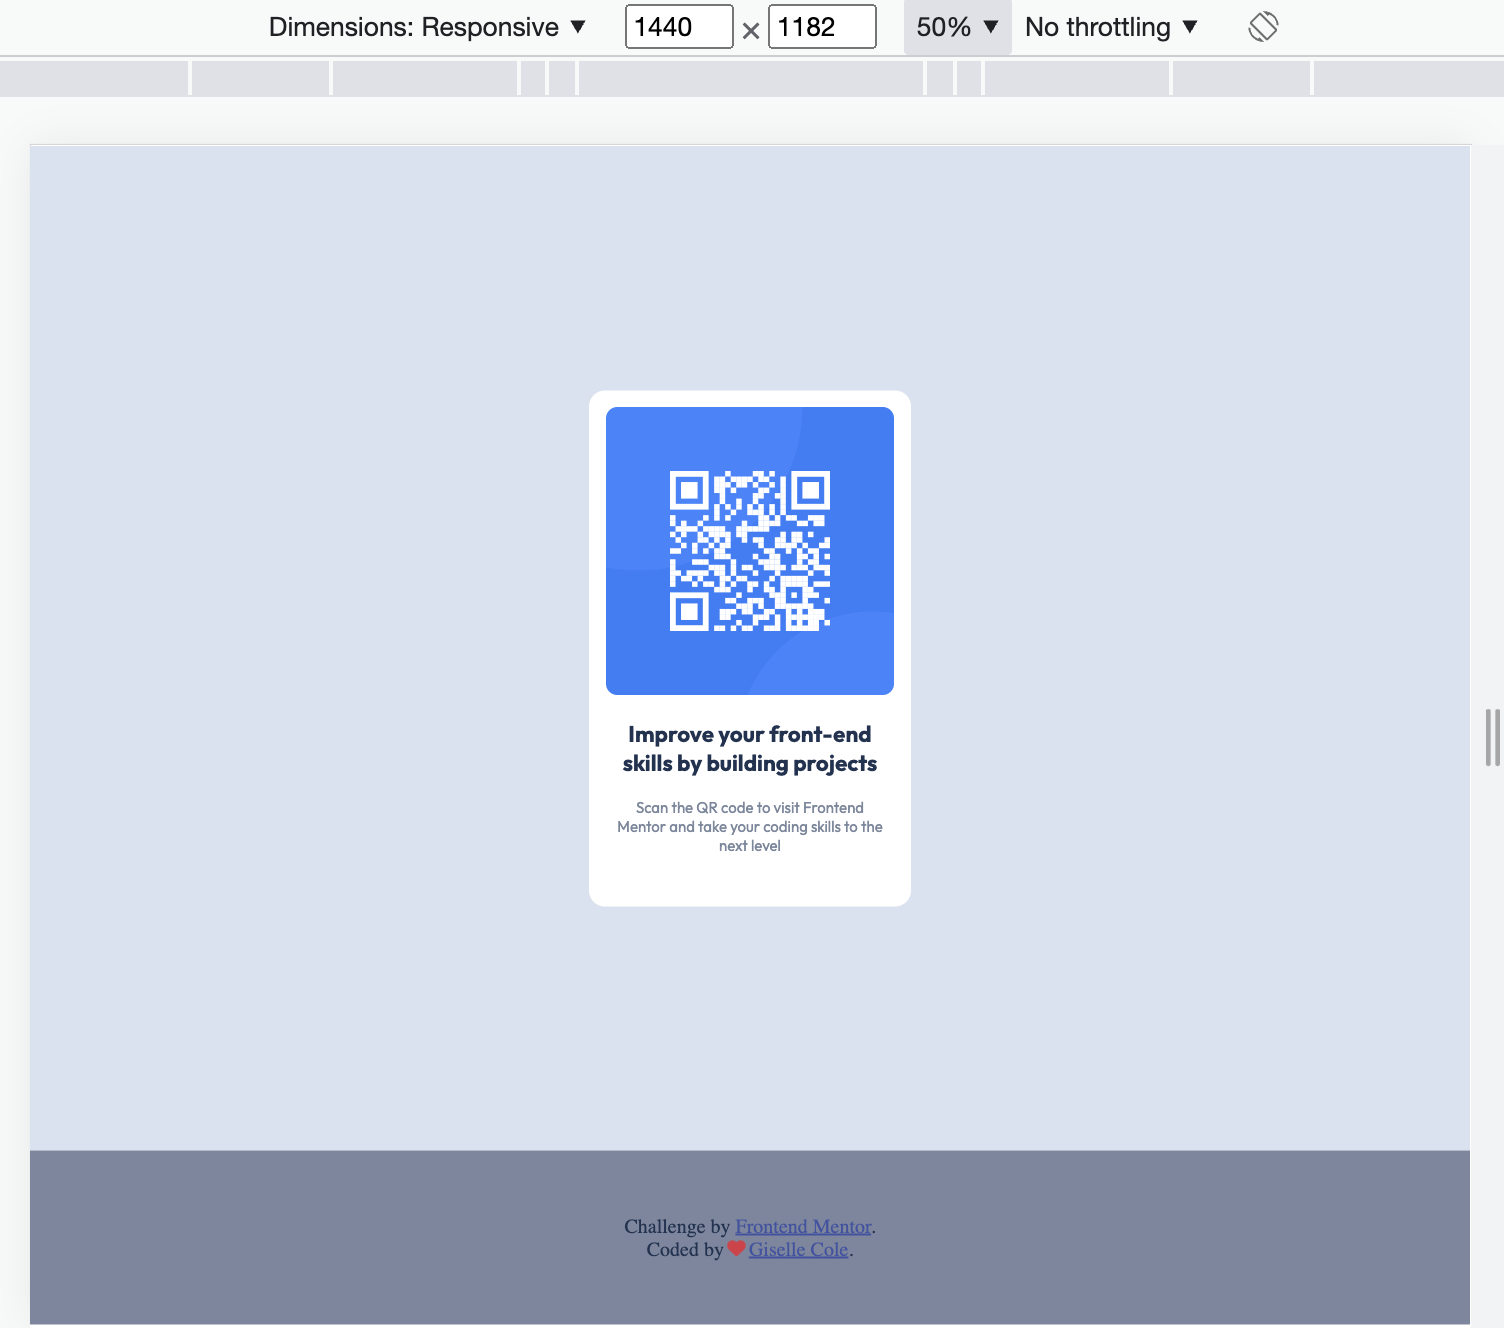
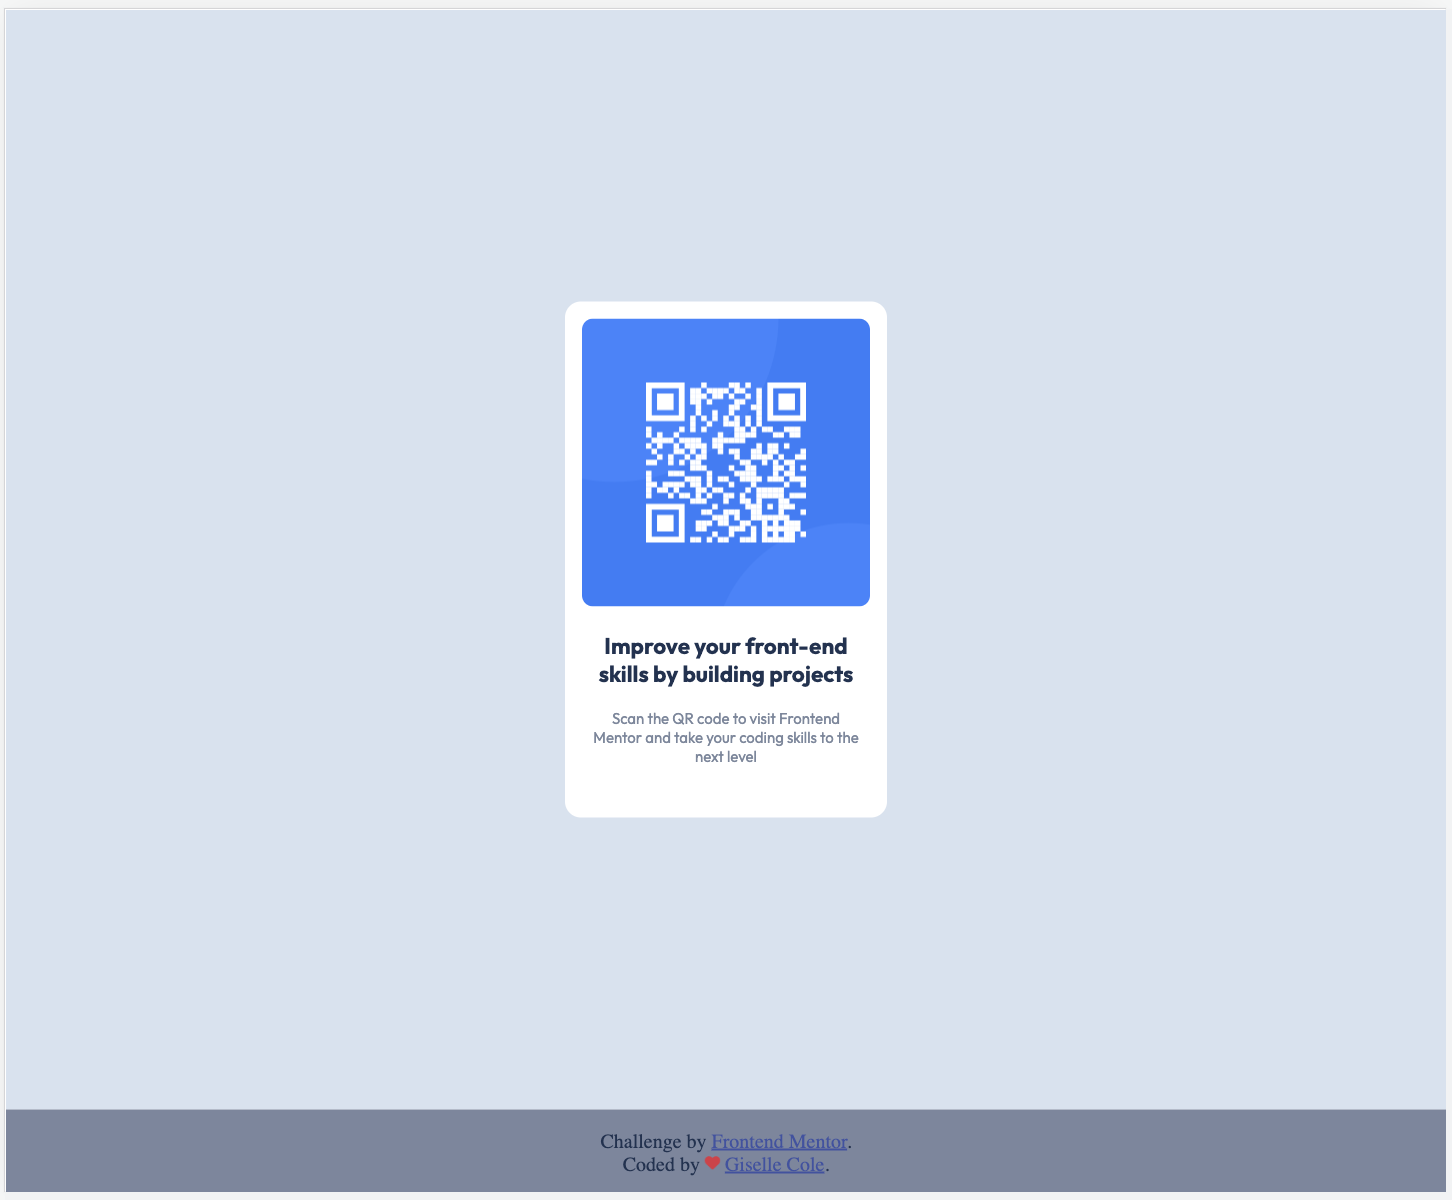
tidy up

Changed region(s): [[0.0, 0.0, 1.0, 1.0], [0.3719, 0.2467, 0.6198, 0.6783]]

diff --git a/dist/scss/style.scss b/dist/scss/style.scss
@@ -6,11 +6,11 @@ main {
   display: flex;
   font-family: var(--fontfamily);
   background-color: var(--lightgray);
-  min-height: 81vh;
+  min-height: 92vh;
   align-items: center;
   font-size: functions.em(15);
   @media (min-width: 820px) {
-    min-height: 85vh;
+    min-height: 93vh;
   }
   & .container {
     max-width: functions.em(375);
@@ -42,7 +42,7 @@ main {
 footer {
   display: flex;
   width: 100vw;
-  padding: functions.em(64);
+  padding: functions.em(20);
   background-color: var(--grayishblue);
   align-items: center;
   justify-content: center;

diff --git a/dist/css/style.css b/dist/css/style.css
@@ -19,13 +19,13 @@ main {
   display: flex;
   font-family: var(--fontfamily);
   background-color: var(--lightgray);
-  min-height: 81vh;
+  min-height: 92vh;
   align-items: center;
   font-size: 0.9375em;
 }
 @media (min-width: 820px) {
   main {
-    min-height: 85vh;
+    min-height: 93vh;
   }
 }
 main .container {
@@ -58,7 +58,7 @@ main .container .card .text p {
 footer {
   display: flex;
   width: 100vw;
-  padding: 4em;
+  padding: 1.25em;
   background-color: var(--grayishblue);
   align-items: center;
   justify-content: center;
